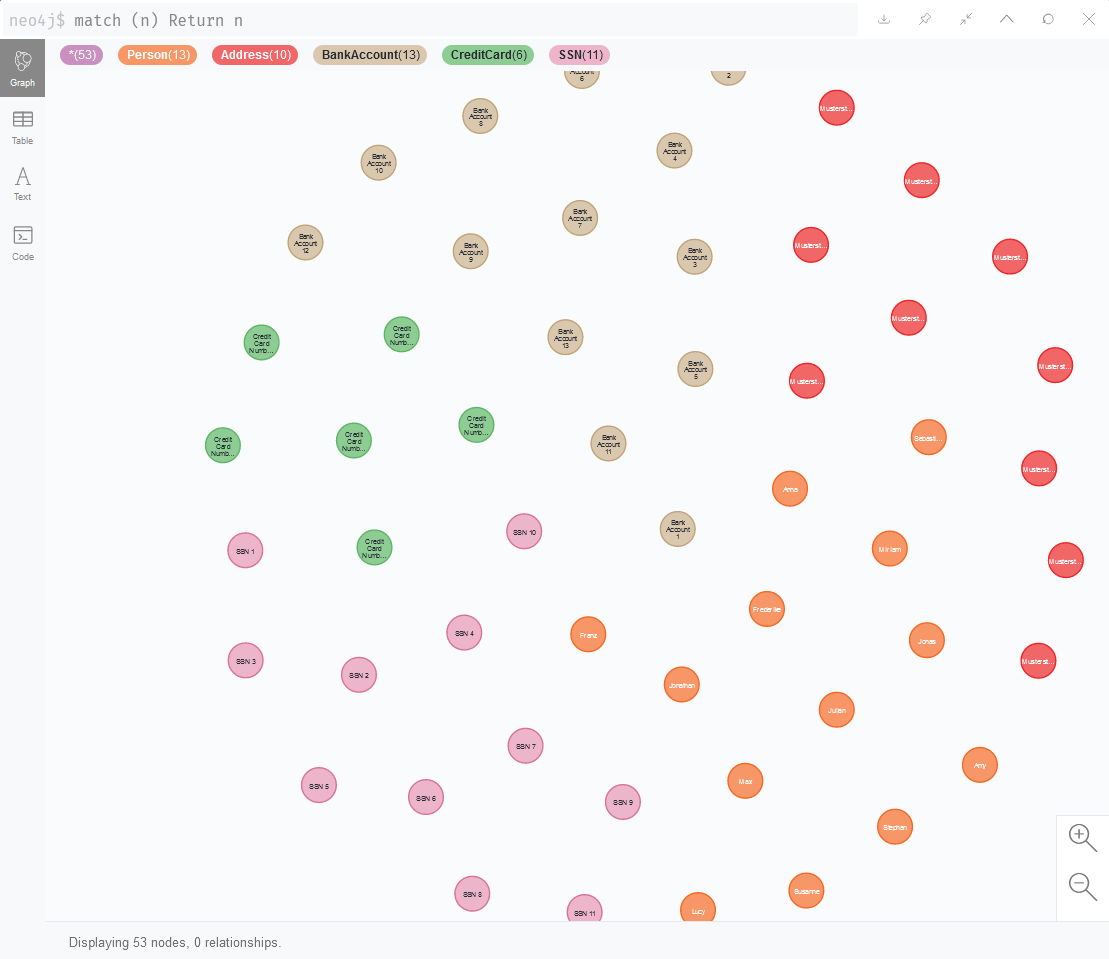
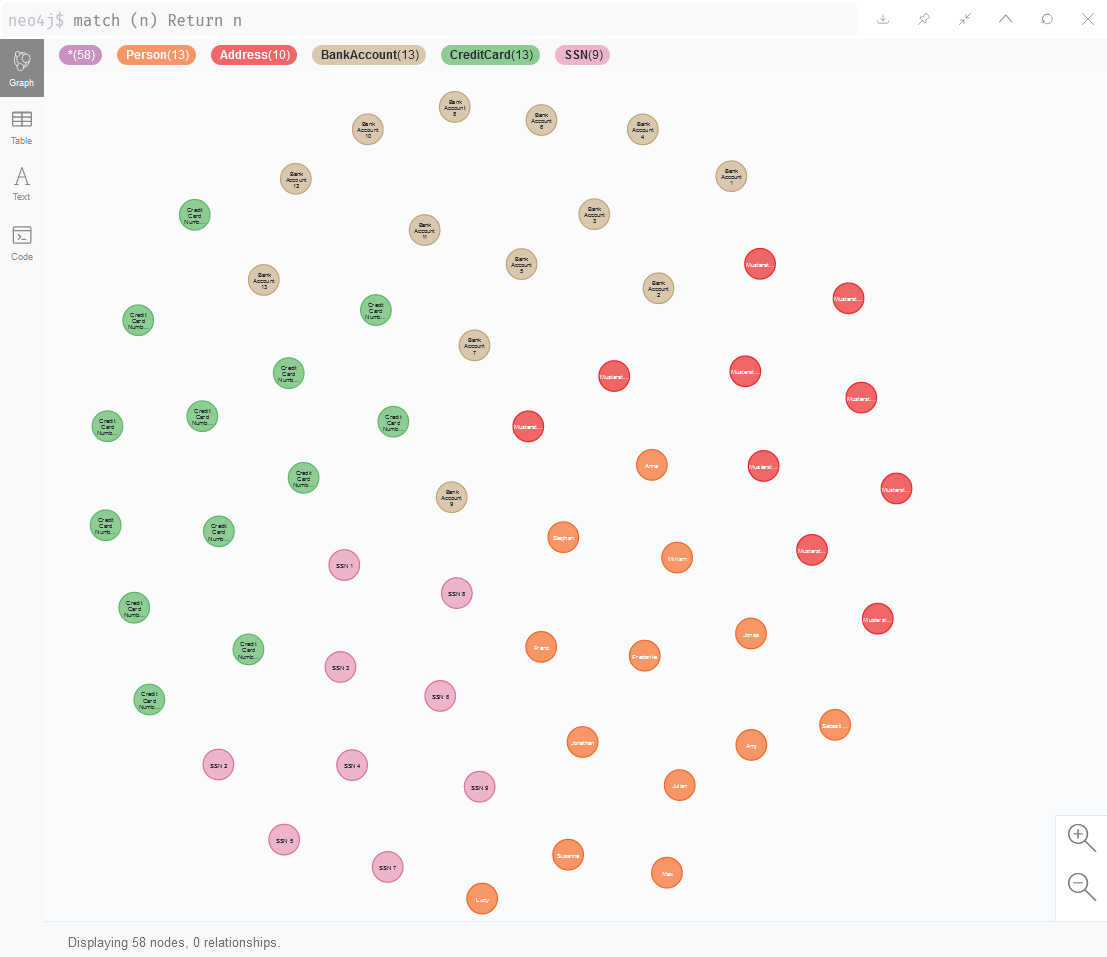
Node Creations.PNG, 01_fill_fraud_db_with_nodes.py und 5 weitere dateien aktualisiert...

diff --git a/src/03_find_fraud_anomaly.py b/src/03_find_fraud_anomaly.py
@@ -42,40 +42,22 @@ if __name__ == "__main__":
     password = 'neo4j'
     db_helper = DbHelper(url, user, password)
 
-    for RelationshipType, values in relationships.items():
-        node1 = values[0]
-        node2 = values[1]
-        Label1 = node1[0]
-        Label2 = node2[0]
-        PropertyKey1 = node1[1]
-        PropertyKey2 = node2[1]
-        nodes1 = node1[2]
-        nodes2 = node2[2]
+    query = '''
+    MATCH       (person:Person)-[]->(contactInformation)
+    WITH        contactInformation,
+                count(person) AS RingSize
+    MATCH       (contactInformation)<-[]-(person)
+    WITH        collect(person.name) AS persons,
+                contactInformation, RingSize
+    WHERE       RingSize > 1
+    RETURN      persons AS FraudRing,
+                labels(contactInformation) AS ContactType,
+                RingSize
+    ORDER BY    RingSize DESC 
+    '''
 
-        itermax = len(nodes1) if len(nodes1) > len(nodes2) else len(nodes2) 
-
-        PropertyValue1 = None
-        PropertyValue2 = None
-
-        for i in range(itermax):
-            try:
-                PropertyValue1 = nodes1[i]
-            except IndexError:
-                PropertyValue1 = nodes1[-1]
-            
-            try:
-                PropertyValue2 = nodes2[i]
-            except IndexError:
-                PropertyValue2 = nodes2[-1]
-
-            query = 'MATCH '
-            query += f'(a:{Label1}),(b:{Label2}) '
-            query += f'WHERE a.{PropertyKey1} = "{PropertyValue1}" AND b.{PropertyKey2} = "{PropertyValue2}" '
-            query += f'CREATE (a)-[r:{RelationshipType}]->(b) '
-            query += 'RETURN type(r)'
-
-            db_helper.run_query(
-                query
-            )
+    db_helper.run_query(
+        query
+    )
 
     db_helper.close()

diff --git a/src/02_add_relationships_to_nodes.py b/src/02_add_relationships_to_nodes.py
@@ -19,8 +19,8 @@ persons = [
 addresses = [ f'Musterstraße {i}' for i in range(1,11)]
 accounts = [ f'Bank Account {i}' for i in range(1, 14)]
 phones = [f'Phone Number {i}' for i in range(1,12)]
-creditcards = [f'Credit Card Number {i}' for i in range(1,7)]
-socialsecuritynumbers = [f'SSN {i}' for i in range(1,12)]
+creditcards = [f'Credit Card Number {i}' for i in range(1,14)]
+socialsecuritynumbers = [f'SSN {i}' for i in range(1,10)]
 
 
 relationships = {

diff --git a/src/01_fill_fraud_db_with_nodes.py b/src/01_fill_fraud_db_with_nodes.py
@@ -19,8 +19,8 @@ persons = [
 addresses = [ f'Musterstraße {i}' for i in range(1,11)]
 accounts = [ f'Bank Account {i}' for i in range(1, 14)]
 phones = [f'Phone Number {i}' for i in range(1,12)]
-creditcards = [f'Credit Card Number {i}' for i in range(1,7)]
-socialsecuritynumbers = [f'SSN {i}' for i in range(1,12)]
+creditcards = [f'Credit Card Number {i}' for i in range(1,14)]
+socialsecuritynumbers = [f'SSN {i}' for i in range(1,10)]
 
 
 nodes = {
